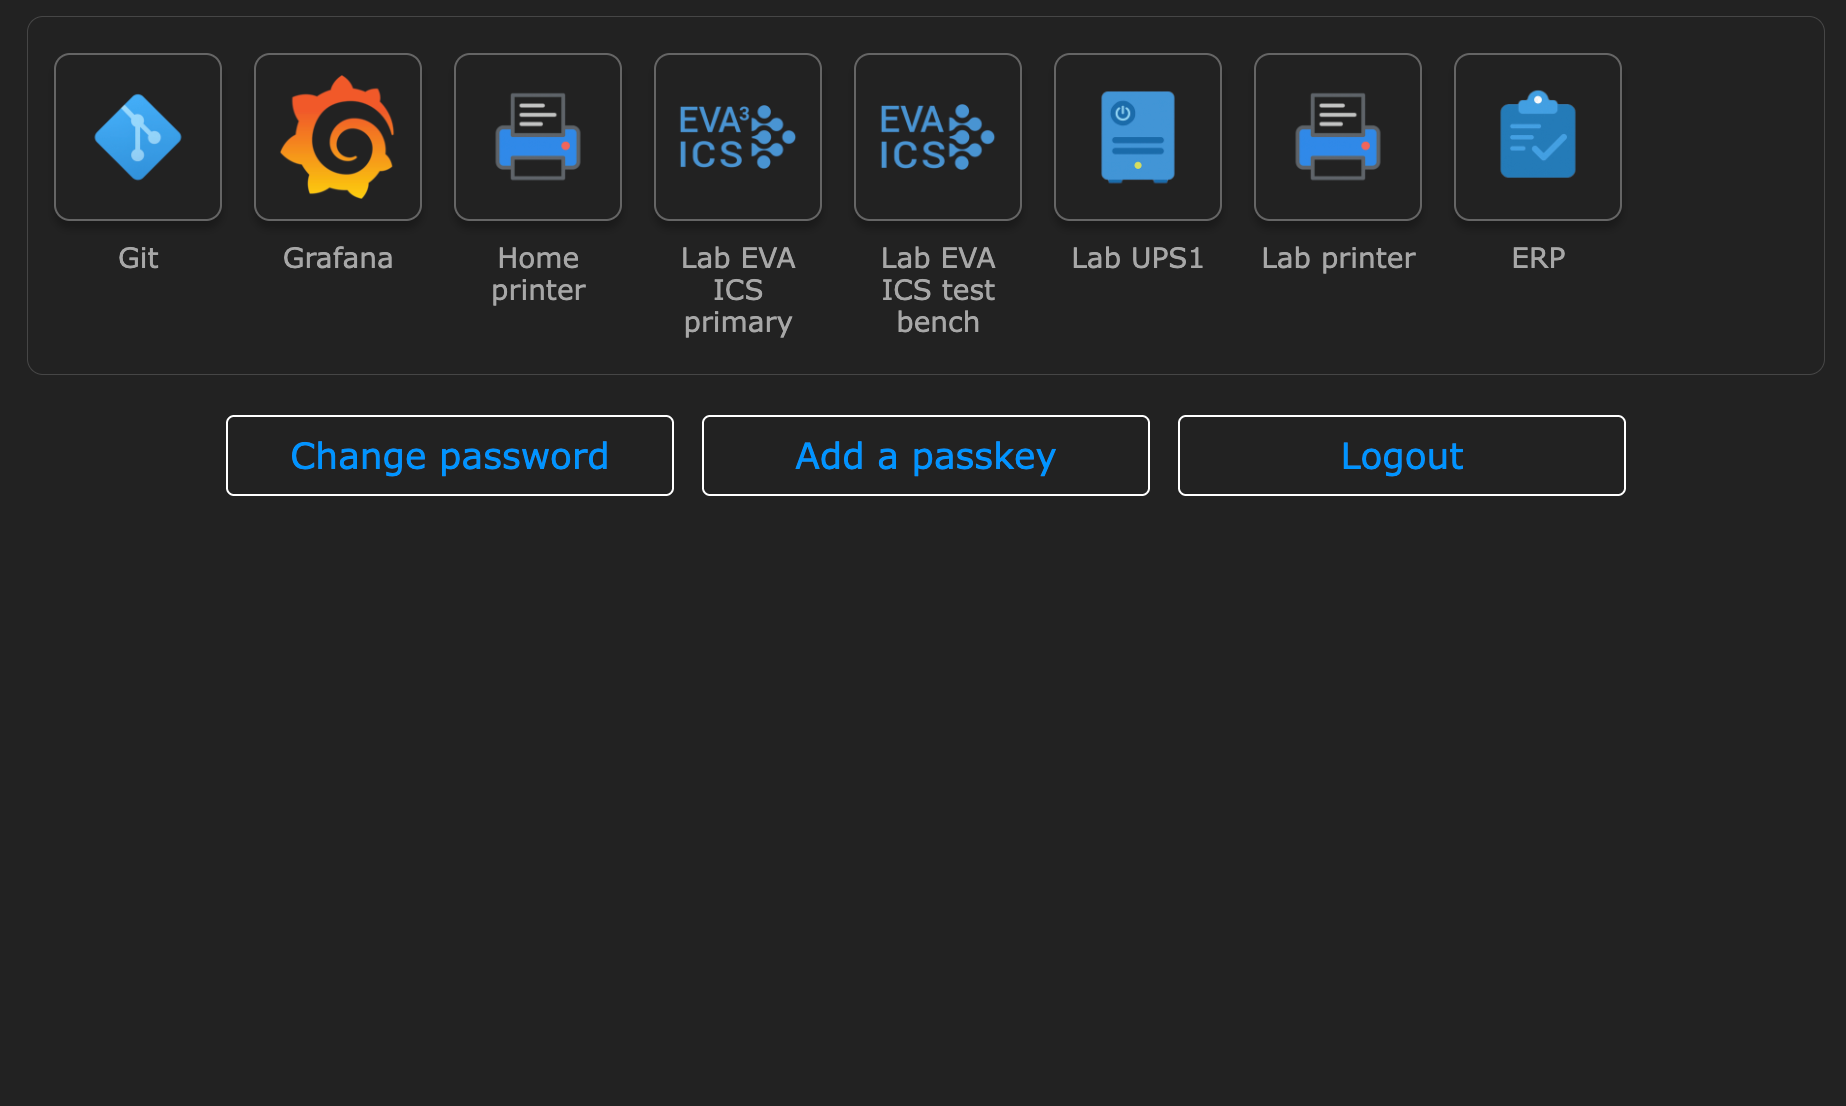
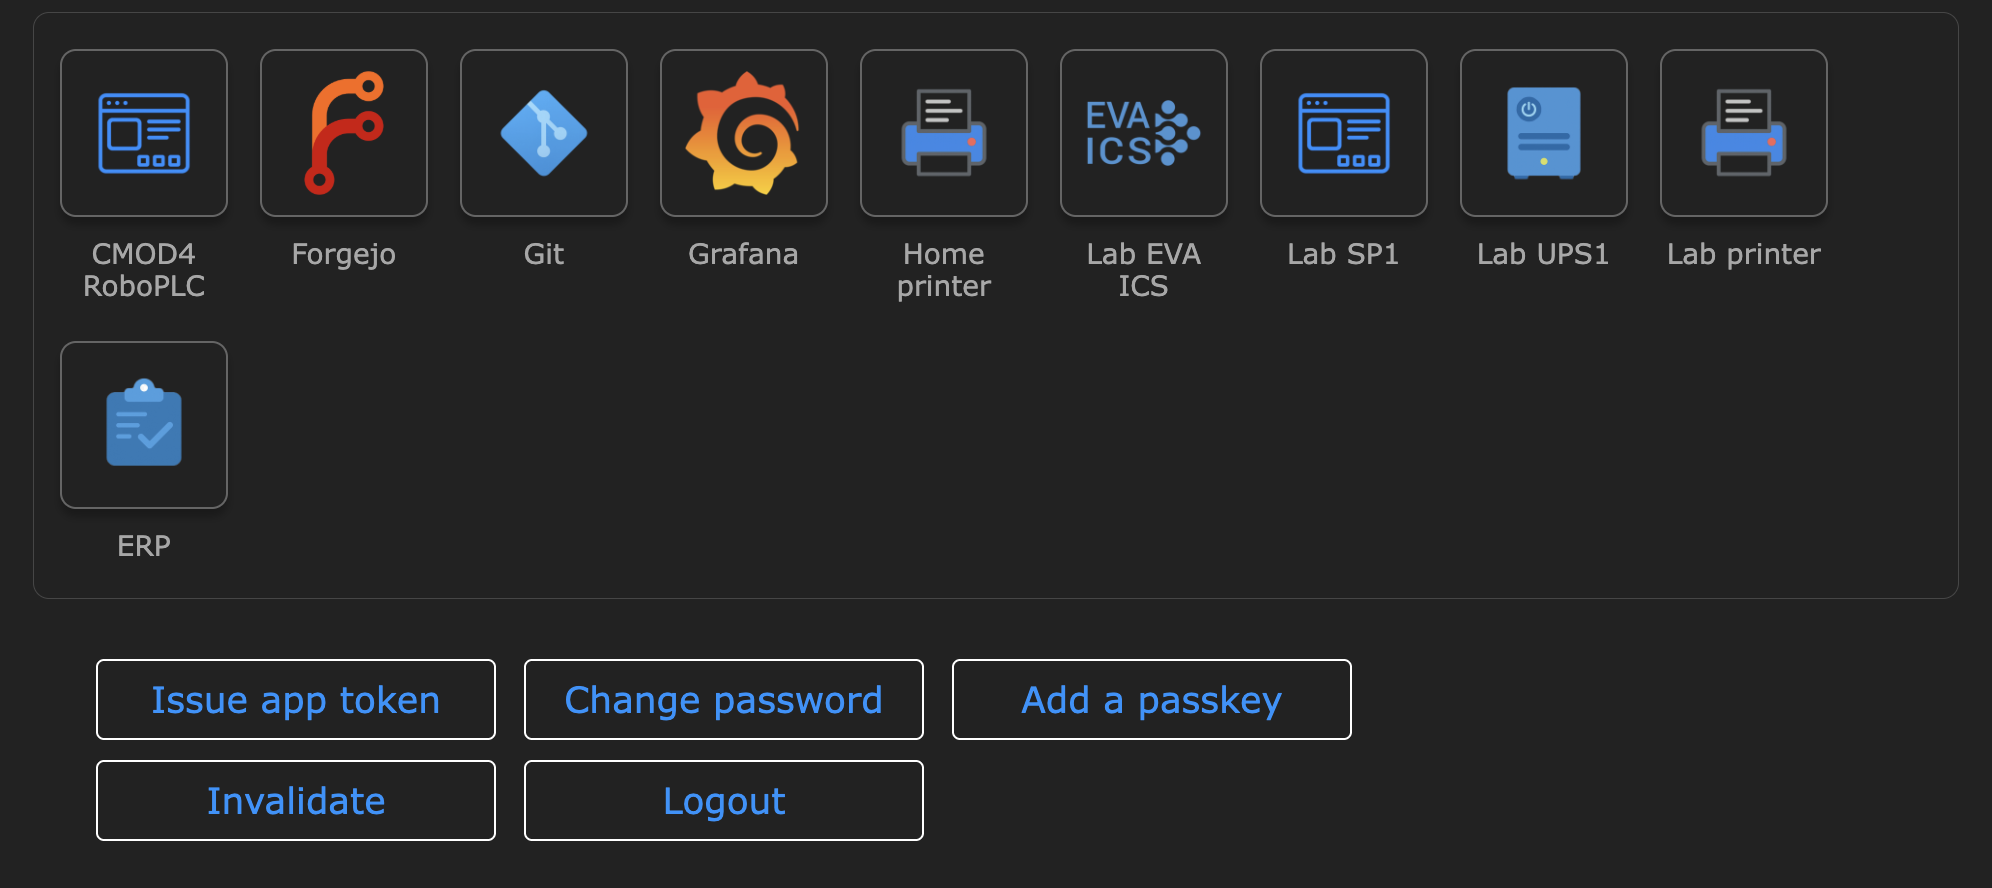
0.1.3 docs

diff --git a/gateryx/usage.rst b/gateryx/usage.rst
@@ -46,9 +46,32 @@ interface, which allows users to:
 .. figure:: ss/sysui.png
     :width: 465px
 
+* Issue app token - issue a bearer JWT token for a selected application.
+
 * Change password - works only if the authenticator is set to `db` (internal
   database).
 
 * Add a passkey - available only for the application group of the same domain.
 
+* Invalidate - invalidate all issued tokens for the user (WARNING: issued
+  application tokens are also invalidated).
+
 * Logout - terminates the session and removes the token from the browser.
+
+Using application tokens
+========================
+
+An issued application token can be sent in the following ways:
+
+* `Authorization: Bearer <token>` HTTP header.
+
+* `Authorization: Basic <base64-encodeded-username:token>` HTTP header. The
+  username part can be any string and is ignored.
+
+In case if the target app requires own autnorization header, an alternative
+header name can be specified (default: `X-Gateryx-Authorization`).
+
+.. note::
+
+   Certain clients (e.g. `git`) do not send authorization headers if the user
+   name is empty. Consider using any non-empty string.

diff --git a/gateryx/install.rst b/gateryx/install.rst
@@ -74,7 +74,8 @@ The official images are available on Docker Hub:
 
 To use in production it is recommended to mount the following volumes:
 
-* **/etc/gateryx** - configuration files
+* **/etc/gateryx** - configuration files (can be empty, the default configs and keys will
+  be generated on first run)
 
 * **/var/gateryx/log** - log files (if enabled and the default path is not changed in the config)
 
